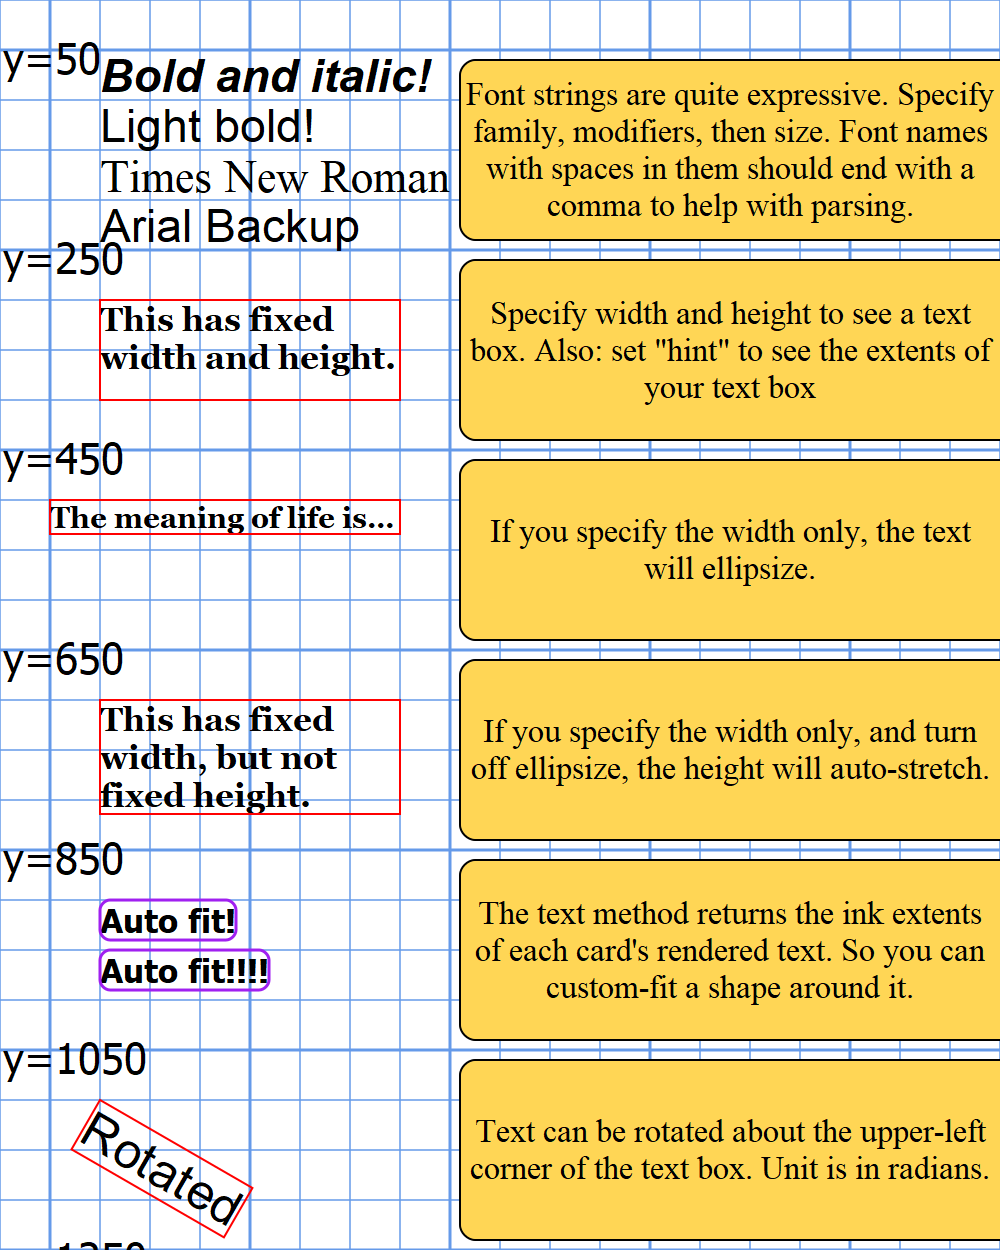
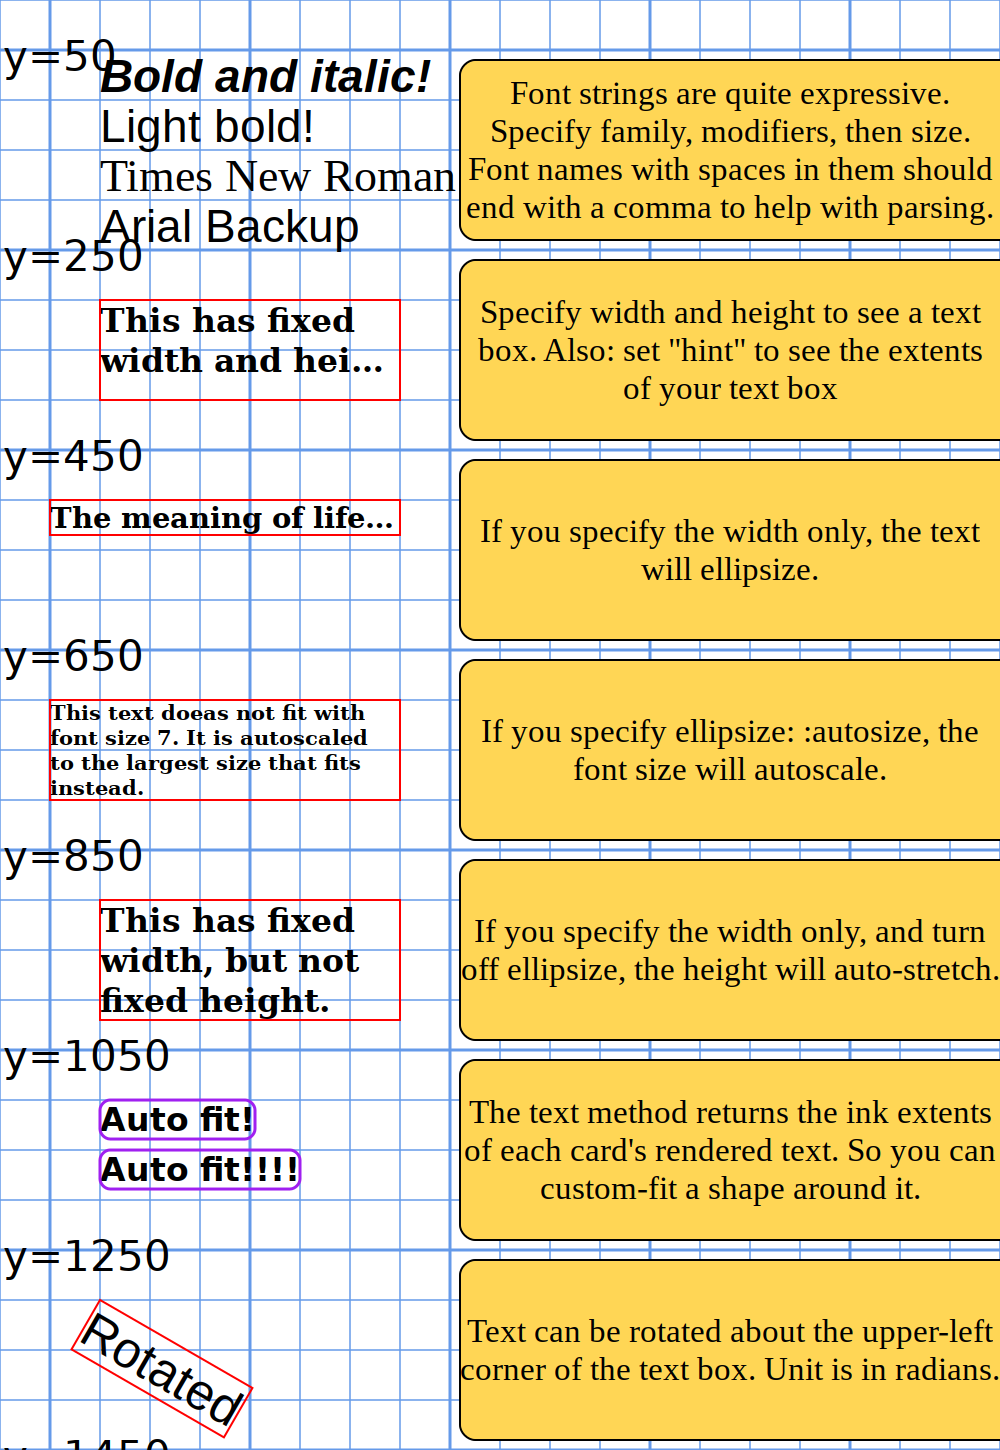
Add ellipsize: :autoscale sample to text sample

diff --git a/samples/text/_text.rb b/samples/text/_text.rb
@@ -1,7 +1,7 @@
 require 'squib'
 require 'squib/sample_helpers'
 
-Squib::Deck.new(width: 1000, height: 1250) do
+Squib::Deck.new(width: 1000, height: 1450) do
   draw_graph_paper width, height
 
   sample 'Font strings are quite expressive. Specify family, modifiers, then size. Font names with spaces in them should end with a comma to help with parsing.' do |x, y|
@@ -19,6 +19,11 @@ Squib::Deck.new(width: 1000, height: 1250) do
   sample 'If you specify the width only, the text will ellipsize.' do |x, y|
     text str: 'The meaning of life is 42', x: x - 50, y: y,
          hint: :red, width: 350, font: 'Serif bold 7'
+  end
+
+  sample 'If you specify ellipsize: :autosize, the font size will autoscale.' do |x, y|
+    text str: 'This text doeas not fit with font size 7. It is autoscaled to the largest size that fits instead.', x: x - 50, y: y,
+         hint: :red, width: 350, height: 100, ellipsize: :autoscale, font: 'Serif bold 7'
   end
 
   sample 'If you specify the width only, and turn off ellipsize, the height will auto-stretch.' do |x, y|
